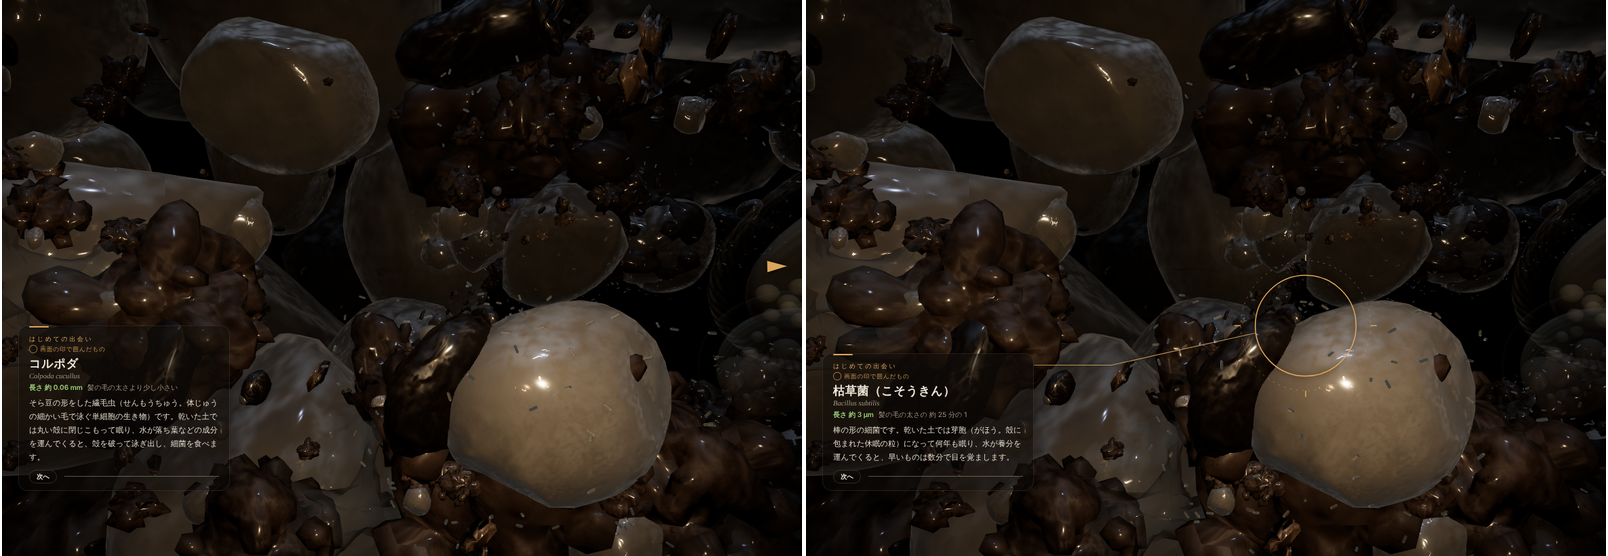
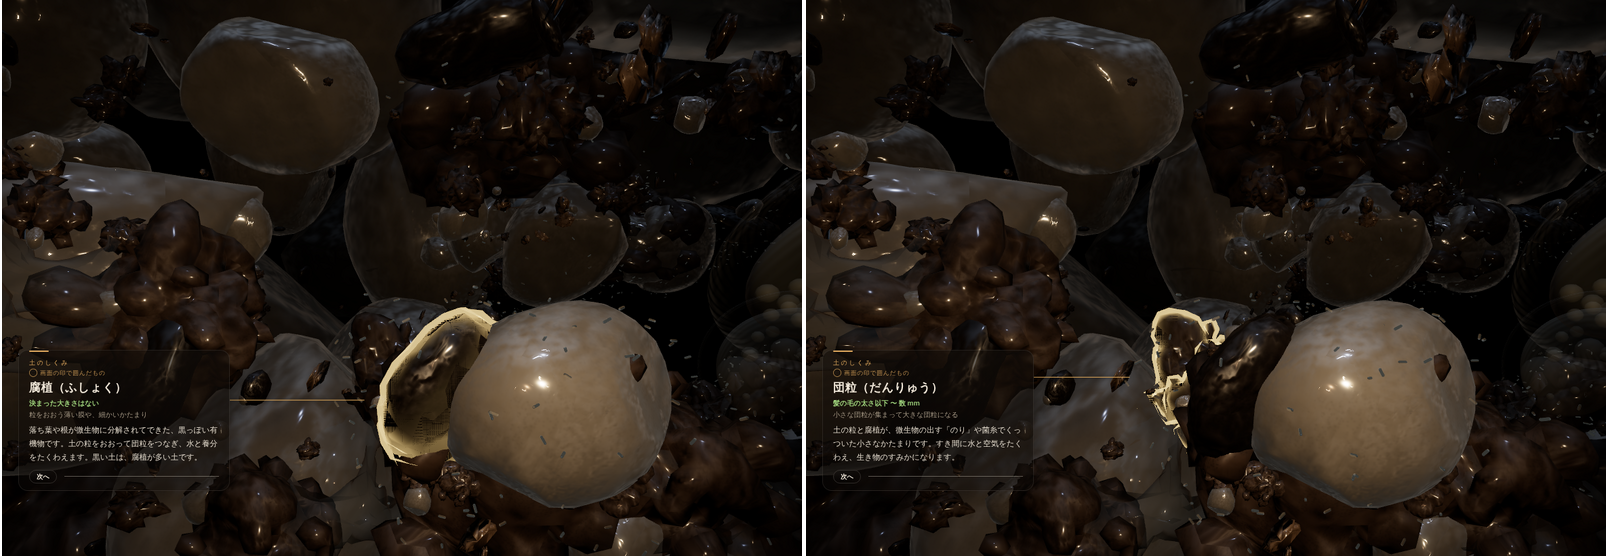
UNDERSOIL: highlight the exact object (golden outline) instead of a large ring
Claude-Session: https://claude.ai/code/session_01HXHWaeyj425ipGMnohy3Vo

diff --git a/undersoil/src/ui/pointer.ts b/undersoil/src/ui/pointer.ts
@@ -3,8 +3,26 @@
 import * as THREE from 'three/webgpu';
 import './pointer.css';
 import type { Target } from '../game/encounters';
+import { dot, float, mix, normalLocal, normalView, oneMinus, positionLocal, positionViewDirection, pow, saturate, time, vec3 } from 'three/tsl';
 
-export function makePointer(camera: THREE.PerspectiveCamera) {
+/** 説明している物そのものの輪郭を光らせる（裏返して少し大きくした形＝輪郭線、表は縁だけ光る） */
+function makeHighlight(scene: THREE.Scene) {
+  const t = time.mul(3.0).sin().mul(0.5).add(0.5);
+  const outline = new THREE.MeshBasicNodeMaterial({ side: THREE.BackSide, transparent: true, depthWrite: false });
+  outline.colorNode = vec3(1.0, 0.72, 0.32); outline.opacityNode = mix(float(0.55), float(0.95), t);
+  outline.positionNode = positionLocal.add(normalLocal.mul(0.06));
+  const rim = new THREE.MeshBasicNodeMaterial({ transparent: true, depthWrite: false, blending: THREE.AdditiveBlending });
+  rim.colorNode = vec3(1.0, 0.7, 0.3).mul(pow(oneMinus(saturate(dot(normalView, positionViewDirection))), 2.2)).mul(mix(float(0.5), float(1.0), t));
+  const group = new THREE.Group(); group.matrixAutoUpdate = false; group.renderOrder = 20; scene.add(group);
+  const a = new THREE.Mesh(undefined, outline), b = new THREE.Mesh(undefined, rim); a.renderOrder = b.renderOrder = 20; group.add(a, b); group.visible = false;
+  return {
+    set(geo: THREE.BufferGeometry | undefined, m: THREE.Matrix4 | undefined) { if (!geo || !m) { group.visible = false; return; } a.geometry = b.geometry = geo; group.matrix.copy(m); group.matrixWorldNeedsUpdate = true; group.visible = true; },
+    hide() { group.visible = false; },
+  };
+}
+
+export function makePointer(camera: THREE.PerspectiveCamera, scenes: THREE.Scene[] = []) {
+  const hl = scenes.map(makeHighlight);
   const NS = 'http://www.w3.org/2000/svg';
   const svg = document.createElementNS(NS, 'svg'); svg.classList.add('pointer'); svg.setAttribute('aria-hidden', 'true');
   const line = document.createElementNS(NS, 'path'); line.classList.add('pl');
@@ -17,13 +35,13 @@ export function makePointer(camera: THREE.PerspectiveCamera) {
   const v = new THREE.Vector3(), e = new THREE.Vector3(), right = new THREE.Vector3();
   return {
     /** 指し示し始める（相手が動くもののときは、毎フレーム位置を取り直す） */
-    show(fn: (() => Target) | null) { get = fn; cached = fn ? fn() : null; refresh = 0; t0 = performance.now(); svg.classList.toggle('on', !!cached); },
-    hide() { get = null; cached = null; svg.classList.remove('on'); },
+    show(fn: (() => Target) | null) { get = fn; cached = fn ? fn() : null; refresh = 0; t0 = performance.now(); svg.classList.toggle('on', !!cached); hl.forEach((h) => h.set(cached?.geo, cached?.matrix)); },
+    hide() { get = null; cached = null; svg.classList.remove('on'); hl.forEach((h) => h.hide()); },
     /** カメラが向くべき位置（自動で巡っている間だけ使う） */
     focus(): THREE.Vector3 | null { return cached ? cached.p : null; },
     update(dt: number) {
       if (!get) return;
-      refresh -= dt; if (refresh <= 0) { const n = get(); if (n) cached = n; refresh = 0.1; }
+      refresh -= dt; if (refresh <= 0 && !cached?.geo) { const n = get(); if (n) cached = n; refresh = 0.1; }
       if (!cached) { svg.classList.remove('on'); return; }
       svg.classList.add('on');
       const W = innerWidth, H = innerHeight;
@@ -32,7 +50,7 @@ export function makePointer(camera: THREE.PerspectiveCamera) {
       // 丸の半径：対象の大きさを画面に写した長さ
       right.set(1, 0, 0).applyQuaternion(camera.quaternion); e.copy(cached.p).addScaledVector(right, cached.r).project(camera);
       let x = (v.x * 0.5 + 0.5) * W, y = (-v.y * 0.5 + 0.5) * H;
-      const r = Math.max(26, Math.min(H * 0.28, Math.abs(e.x - v.x) * 0.5 * W * 1.25));
+      const r = Math.max(18, Math.min(H * 0.22, Math.abs(e.x - v.x) * 0.5 * W * (cached.geo ? 0.95 : 1.05)));
       const off = behind || x < 0 || x > W || y < 0 || y > H;
       if (behind) { x = W - x; y = H - y; }
       const pulse = 1 + 0.06 * Math.sin((performance.now() - t0) / 260);
@@ -45,7 +63,7 @@ export function makePointer(camera: THREE.PerspectiveCamera) {
         ring.style.display = ring2.style.display = ticks.style.display = 'none'; line.setAttribute('d', '');
         return;
       }
-      arrow.style.display = 'none'; ring.style.display = ring2.style.display = ticks.style.display = '';
+      arrow.style.display = 'none'; ring.style.display = ring2.style.display = ticks.style.display = cached.geo ? 'none' : '';
       ring.setAttribute('cx', String(x)); ring.setAttribute('cy', String(y)); ring.setAttribute('r', String(r * pulse));
       ring2.setAttribute('cx', String(x)); ring2.setAttribute('cy', String(y)); ring2.setAttribute('r', String(r * 1.22));
       const t = r * 1.22, k = 9;

diff --git a/undersoil/src/game/world.ts b/undersoil/src/game/world.ts
@@ -18,7 +18,7 @@ export interface World {
   syncWetness(): void;
   stats: { instances: number; triangles: number; drawCalls: number };
   /** カメラの前にある、その種類の粒（紹介カードで指し示すため） */
-  find(kind: GrainKind, from: THREE.Vector3, fwd: THREE.Vector3): { p: THREE.Vector3; r: number } | null;
+  find(kind: GrainKind, from: THREE.Vector3, fwd: THREE.Vector3): { p: THREE.Vector3; r: number; geo?: THREE.BufferGeometry; matrix?: THREE.Matrix4 } | null;
 }
 
 export async function buildWorld(base: string, opts: { grainLod: 0 | 1; density: number; cheap?: boolean }): Promise<World> {
@@ -112,7 +112,9 @@ export async function buildWorld(base: string, opts: { grainLod: 0 | 1; density:
         if (dist < r + 1.5 || dist > 45) continue; const cos = d.dot(fwd) / dist; if (cos < 0.82) continue;
         const sc = (cos - 0.82) * Math.min(1, r / Math.max(0.5, dist * 0.08)) / (1 + dist * 0.04); if (sc > bs) { bs = sc; best = pl; }
       }
-      return best ? { p: best.pos.clone(), r: Math.max(best.scale.x, best.scale.y, best.scale.z) } : null;
+      if (!best) return null;
+      const b = best as Placement; const L = loaded.get(b.variant);
+      return { p: b.pos.clone(), r: Math.max(b.scale.x, b.scale.y, b.scale.z), geo: L?.geo[b.lod], matrix: new THREE.Matrix4().compose(b.pos, b.quat, b.scale) };
     },
     syncWetness() {
       for (const b of batches) {

diff --git a/undersoil/src/ui/card.ts b/undersoil/src/ui/card.ts
@@ -9,7 +9,7 @@ let el: HTMLElement | null = null; let timer = 0; let onDone: (() => void) | nul
 function root() {
   if (el) return el;
   el = document.createElement('div'); el.className = 'card'; el.setAttribute('role', 'status');
-  el.innerHTML = '<div class="card-tag">はじめての出会い</div><div class="card-where">◯ 画面の印で囲んだもの</div><h2></h2><div class="sci"></div><div class="size"><b></b><span></span></div><p></p><div class="card-foot"><button class="btn skip">次へ</button><i class="life"></i></div>';
+  el.innerHTML = '<div class="card-tag">はじめての出会い</div><div class="card-where">✦ 画面で金色に光っているもの</div><h2></h2><div class="sci"></div><div class="size"><b></b><span></span></div><p></p><div class="card-foot"><button class="btn skip">次へ</button><i class="life"></i></div>';
   document.body.append(el);
   el.querySelector('.skip')!.addEventListener('click', () => hideCard());
   addEventListener('keydown', (e) => { if (e.code === 'Enter' && el!.classList.contains('show')) hideCard(); });

diff --git a/undersoil/src/game/encounters.ts b/undersoil/src/game/encounters.ts
@@ -2,7 +2,7 @@
 import { SPECIES } from './species';
 import { showCard } from '../ui/card';
 
-export type Target = { p: import('three').Vector3; r: number } | null;
+export type Target = { p: import('three').Vector3; r: number; geo?: import('three').BufferGeometry; matrix?: import('three').Matrix4; obj?: import('three').Object3D } | null;
 export interface Encounter { id: string; when: () => boolean; /** 画面のどれを説明しているかを示すための、世界の中の位置と大きさ */ target?: () => Target; }
 export function makeEncounters(list: Encounter[], opts: { calm?: () => boolean; gapSec?: number; onShow?: (id: string, target: (() => Target) | null) => void; onHide?: () => void } = {}) {
   const seen = new Set<string>(); let busy = false, wait = 2;

diff --git a/undersoil/src/pages/screen.ts b/undersoil/src/pages/screen.ts
@@ -92,7 +92,7 @@ async function main() {
   // 出会いの順番（M1 の自動の流れ用。M3 で、プレイヤーの位置と行動に結び付ける）
   const cellW = (i: number) => world.grid.cells[i].water, cellM = (i: number) => world.grid.cells[i].microbes;
   // 紹介カードが指し示す相手（カメラの前にあるもの）
-  const pointer = makePointer(camera);
+  const pointer = makePointer(camera, [scene]);
   const fwd = () => new THREE.Vector3(0, 0, -1).applyQuaternion(camera.quaternion);
   const grain = (k: 'quartz' | 'aggregate' | 'humus' | 'clay') => (): Target => world.find(k, camera.position, fwd());
   const bridge = (): Target => { let best: THREE.Vector3 | null = null, bs = 0; const f = fwd(), d = new THREE.Vector3();

diff --git a/undersoil/Docs/HANDOFF.md b/undersoil/Docs/HANDOFF.md
@@ -58,7 +58,7 @@
   早回し動画は Wikimedia が 429 のままなので、Internet Archive の CC BY 3.0 の接写動画で首振りを確かめて反映した（`REFERENCE/seedling-realism.md` の追記）。本葉の柄をまっすぐにした。**未対応**：シロツメクサそのものの動画はない。
 - 「iPhone で全画面にできない？」→ iPhone の Safari にはページの全画面がない。ホーム画面に追加すると全画面で開く（manifest、アイコン、`apple-mobile-web-app-capable`）。「全画面」ボタンでその手順を案内。数秒さわらないと操作パネルが薄くなる。横向きの小さな画面ではボタンを小さく。
 - 「表面の土にサラサラ感がなく、土に見えない。芽が出るときに砂粒がこぼれるように」→ 土を一粒ずつの砂粒に作り直した（`src/game/sand.ts`、約 9 万粒）。芽が出るときに土が盛り上がって割れ、砂粒が転がり、子葉に付いた粒がすべり落ちる（`buildSpill`）。
-- 「説明文が画面の何の説明か分からない」→ カードが出ている間、対象を丸印で囲み、カードから線を引く（`src/ui/pointer.ts`）。画面外なら端に矢印。自動で巡っている間はカメラが対象を向く。相手は world.find（粒）、swarm.find（細菌の群れ）、bridges（水の膜）、creatures.nearest（コルポダ）。
+- 「説明文が画面の何の説明か分からない」→ 「丸が大きすぎてどれか分からない」を受け、粒は形そのものの輪郭を金色に光らせる（裏返した形の輪郭線＋縁の光）。細菌の群れなど形がないものだけ丸印。カードが出ている間、カードから線を引く（`src/ui/pointer.ts`）。画面外なら端に矢印。自動で巡っている間はカメラが対象を向く。相手は world.find（粒）、swarm.find（細菌の群れ）、bridges（水の膜）、creatures.nearest（コルポダ）。
 - 土の中の絵は「いい」との評価。Quest 3 の確認は後日（持ち主）。
 
 ## 既知の問題・未確認
